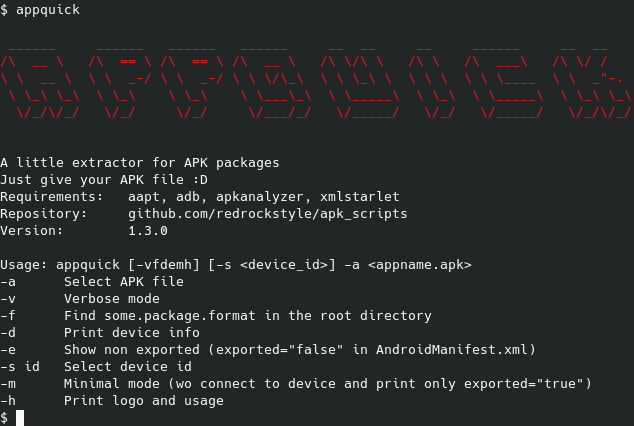
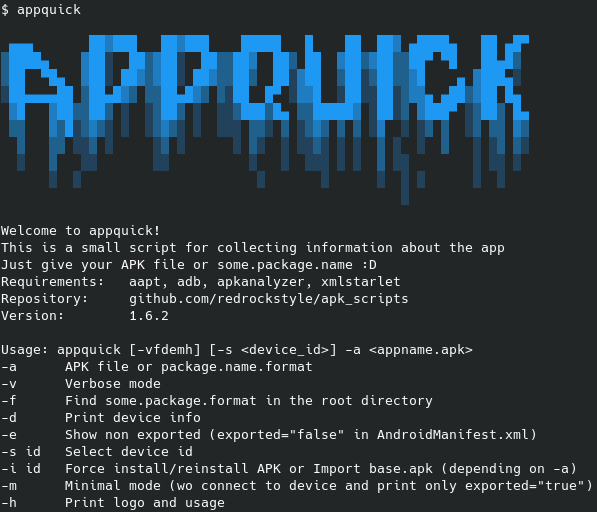
add sup pkg.name

Changed region(s): [[0.0, 0.0, 0.995, 1.0], [0.7538, 0.4577, 0.8442, 0.5188]]

diff --git a/README.md b/README.md
@@ -1,5 +1,11 @@
-## APPQUICK: Getting information about the app
-![image](./img/appquick.png)
+## appquick: Get info app (APK or package)
+<div style="text-align:center"><img src="./img/appquick.png" /></div>
 
-## APPRUN: Active actions with the app
-![image](./img/apprun.png)
+## apprun: Support operations (APK or package)
+<div style="text-align:center"><img src="./img/apprun.png" /></div>
+
+## Versions
+### AppQuick: 1.6.2
+* added selection APK or some.package.name (argument -a)
+* added autoinstall app (argument -i for -a some.apk)
+* added autoimport base.apk (argument -i for -a some.package.name)
